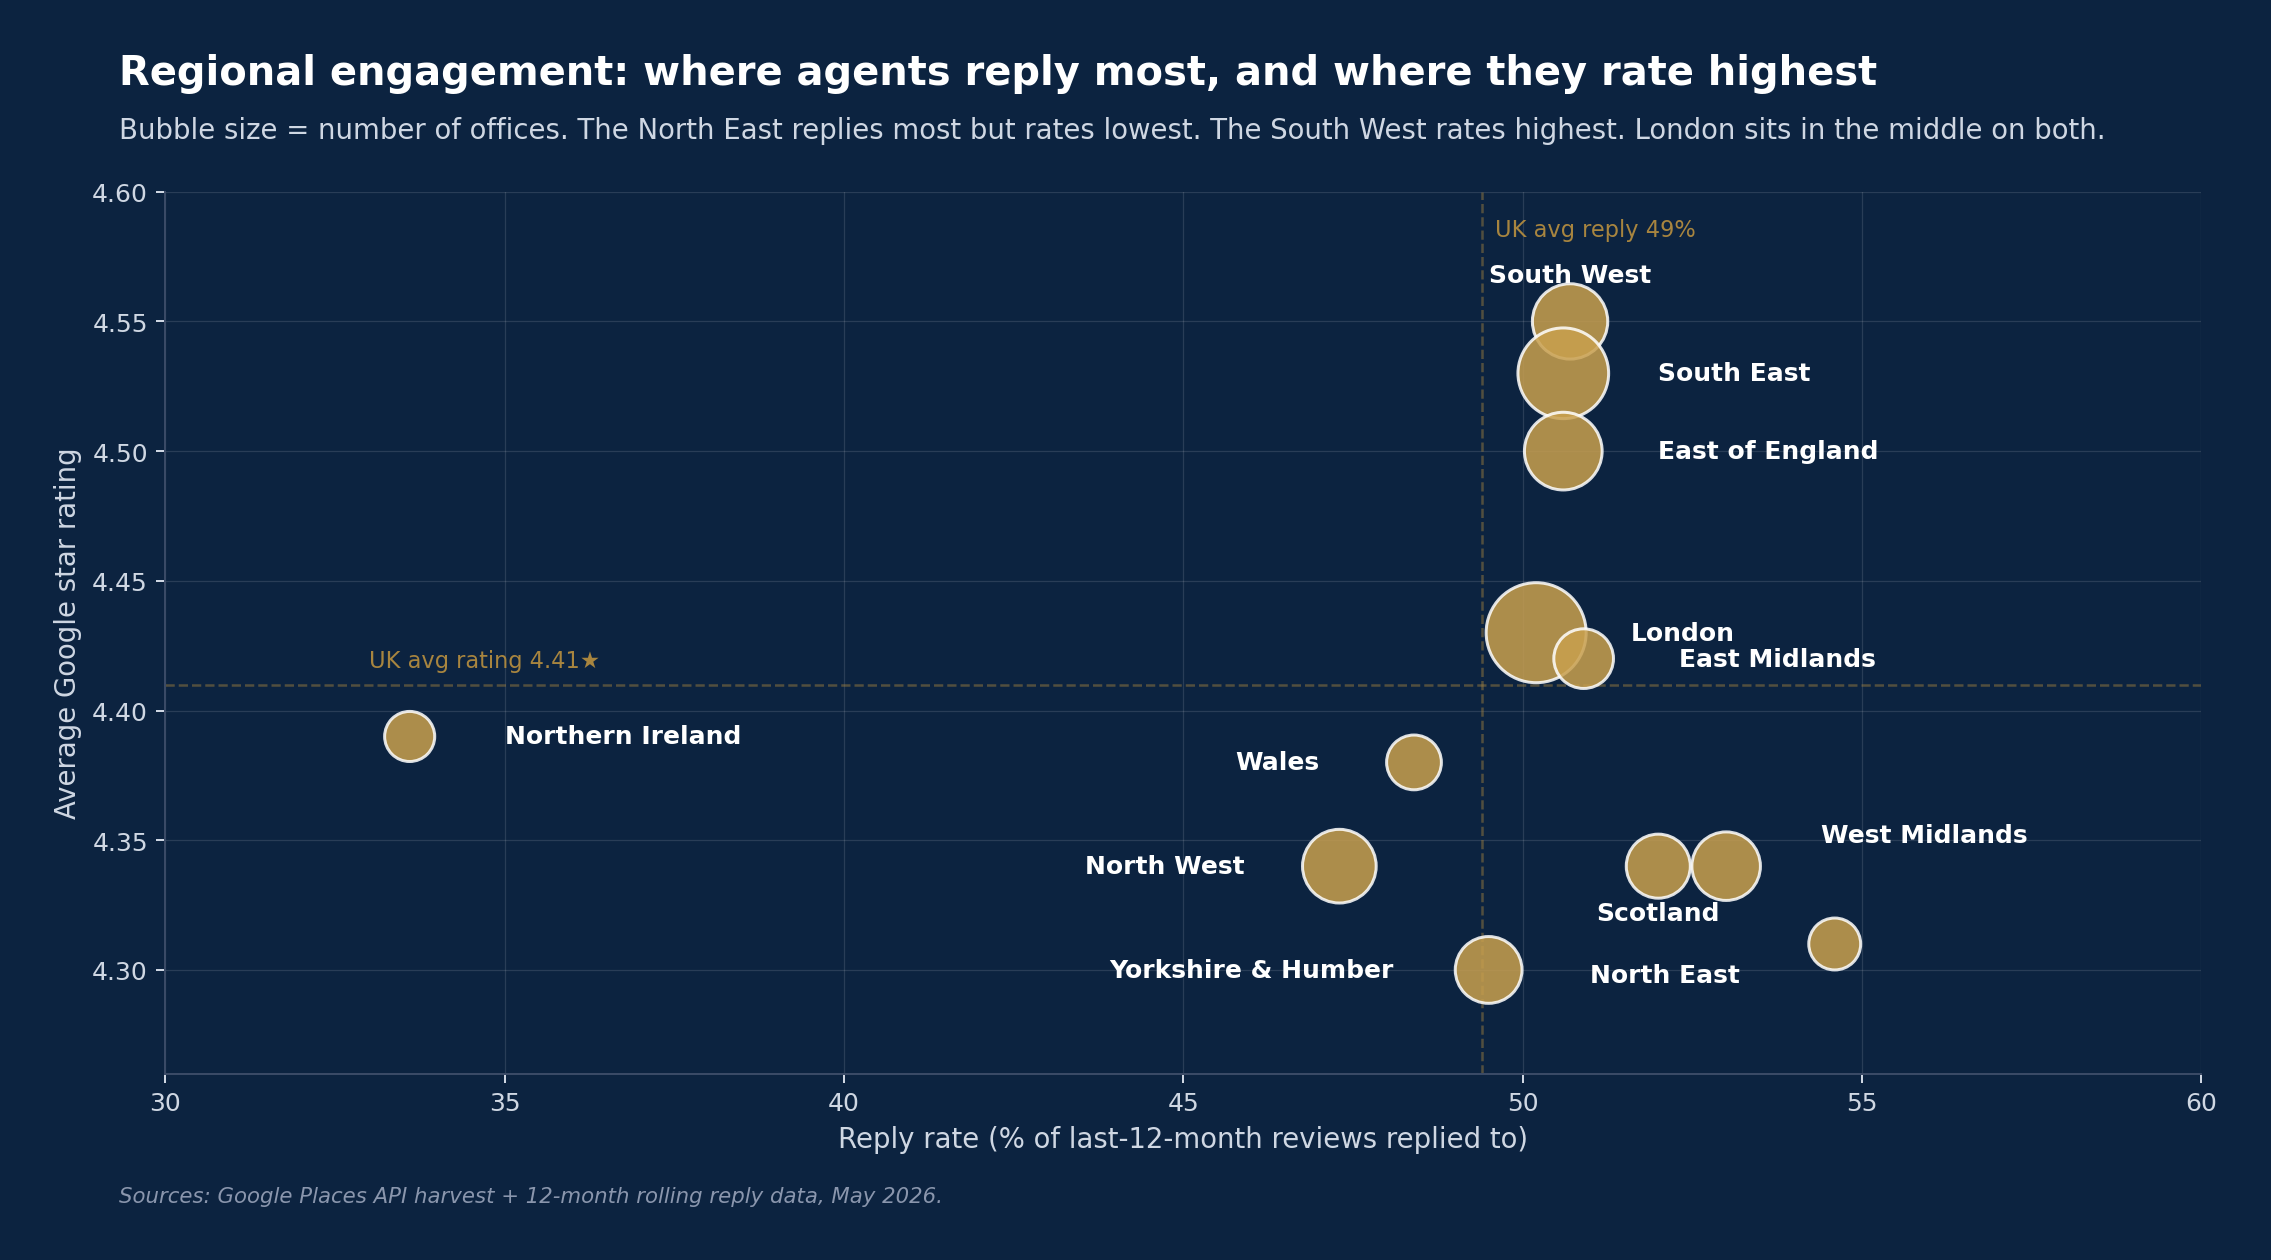
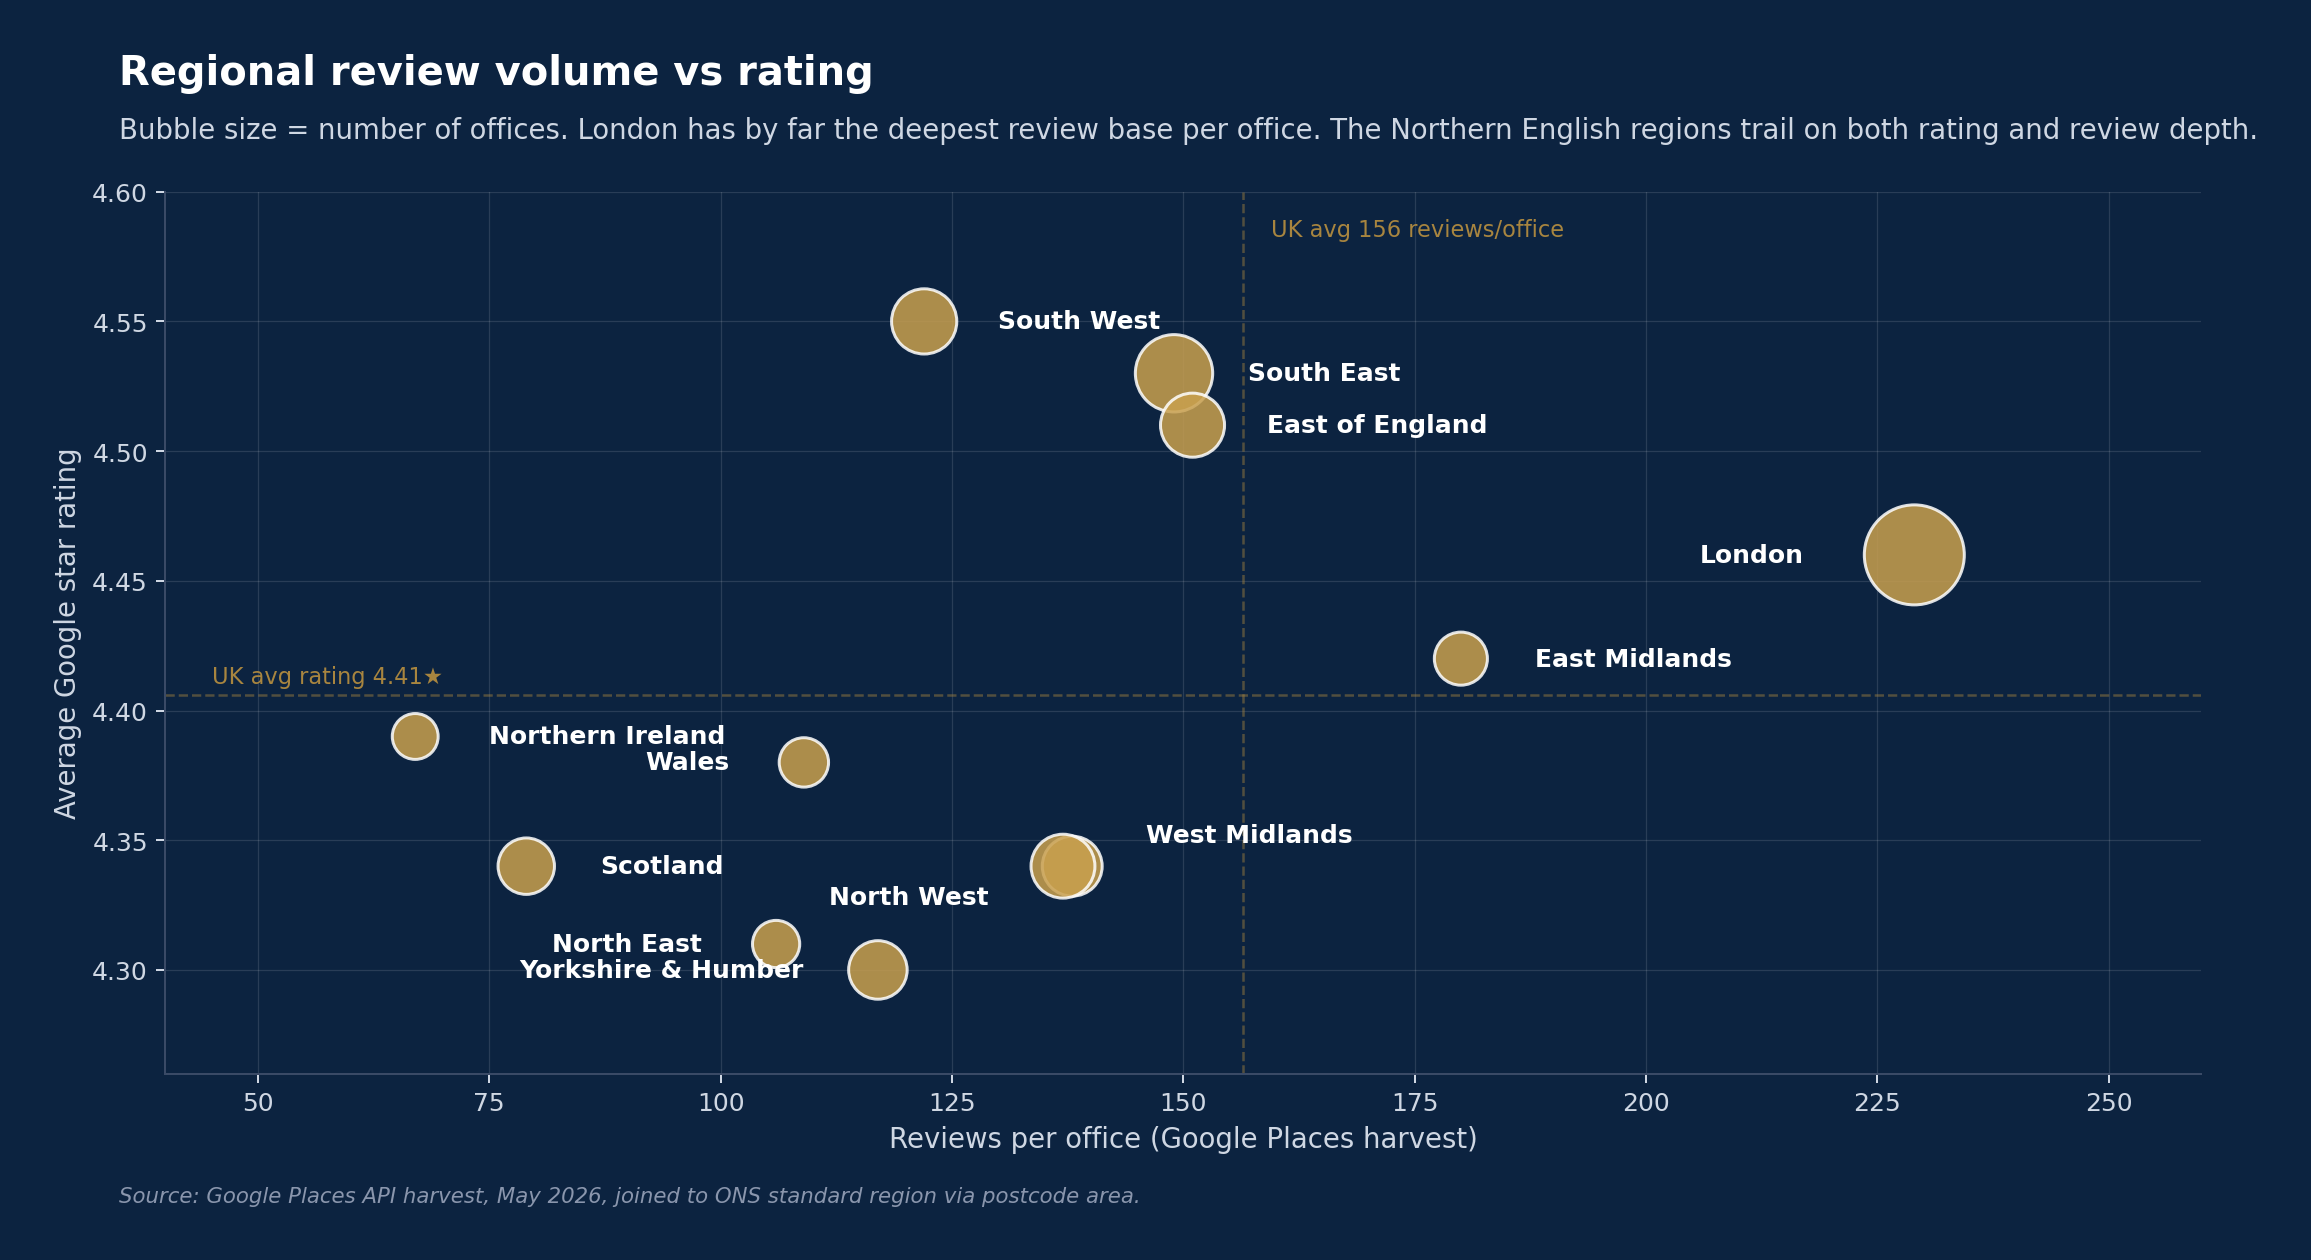
Replace regional reply-rate chart with reviews-per-office chart (volume × rating)

diff --git a/reputation-state-of-the-nation/index.html b/reputation-state-of-the-nation/index.html
@@ -809,17 +809,17 @@
 
       <p style="margin-top:18px; color:#3b4257; font-size:16px; max-width:780px;">It would be easy to read this as "Southern agents are better". The reality is more interesting. The South contains older, wealthier housing stock, longer-tenured agents, and customers writing reviews for purchases that were emotionally significant — conditions that tend to push ratings up. Northern markets have higher transaction velocity, shorter agency tenures, and — in some postcode areas — a more vocal review culture. The rating differential reflects market conditions more than agent quality.</p>
 
-      <h3 style="margin-top:36px;">Regional engagement — where agents reply most</h3>
-      <p style="color:#3b4257; font-size:16px; max-width:780px;">Reply rate tells a different story — and it's the more flattering one for the North.</p>
+      <h3 style="margin-top:36px;">Regional review volume vs rating</h3>
+      <p style="color:#3b4257; font-size:16px; max-width:780px;">Looking at the volume of reviews per office alongside average rating tells a sharper story — review depth and review quality compound together.</p>
 
       <figure class="chart-figure">
-        <img src="chart-regional-engagement.png" alt="Scatter plot: regional reply rate on x-axis, regional average rating on y-axis. North East replies most but rates lowest" loading="lazy">
+        <img src="chart-regional-engagement.png" alt="Scatter plot: regional reviews per office on x-axis, regional average rating on y-axis. London has the deepest review base; Northern regions trail on both metrics" loading="lazy">
       </figure>
-      <p class="chart-caption">Regional reply rate (last 12 months) vs. average Google rating. Bubble size = number of offices. The four English regions with the lowest ratings are also four of the five highest on reply rate.</p>
+      <p class="chart-caption">Regional reviews per office vs. average Google rating. Bubble size = number of offices. London has by far the deepest review base per office. The Northern English regions trail on both rating and review depth.</p>
 
-      <p style="margin-top:24px; color:#3b4257; font-size:16px; max-width:780px;">The North East replies to 54.6% of reviews in the last 12 months — the highest of any region — yet sits second-lowest on average rating. The West Midlands is similar: high engagement (52.9%), lower rating (4.34★). The pattern suggests that agents in markets where ratings are structurally tougher are working harder to engage with feedback. They're trying to climb the rating curve from the other end.</p>
+      <p style="margin-top:24px; color:#3b4257; font-size:16px; max-width:780px;">London is the standout, with 229 reviews per office — well above the UK average of 156 — and a respectable 4.46★ rating. The South West, South East and East of England cluster together at high rating but lower review depth (122–151 reviews per office). The Northern English regions, plus Scotland and Wales, sit in the lower-left quadrant on both measures: lower ratings AND fewer reviews per office.</p>
 
-      <p style="margin-top:18px; color:#3b4257; font-size:16px; max-width:780px;">Northern Ireland is the outlier at the bottom-left of the chart — 33.6% reply rate, 4.39★ rating. It's the smallest cohort (469 offices) and the lowest-engaging of the 12 regions by a clear margin. A reasonable read is that the Northern Ireland agent market simply hasn't adopted the Google-reviews discipline as comprehensively as Great Britain has.</p>
+      <p style="margin-top:18px; color:#3b4257; font-size:16px; max-width:780px;">Northern Ireland is the outlier on review depth — just 67 reviews per office despite a respectable 4.39★ average rating. A reasonable read is that the Northern Ireland agent market hasn't yet built the Google-reviews discipline at the same scale as Great Britain.</p>
 
       <h3 style="margin-top:36px;">The postcode-area league table</h3>
       <p style="color:#3b4257; font-size:16px; max-width:780px;">Zooming in further — the 108 UK postcode areas with at least 10 estate-agent offices. The top end is dominated by affluent commuter belts; the bottom end by larger Northern cities and Scottish urban centres.</p>
